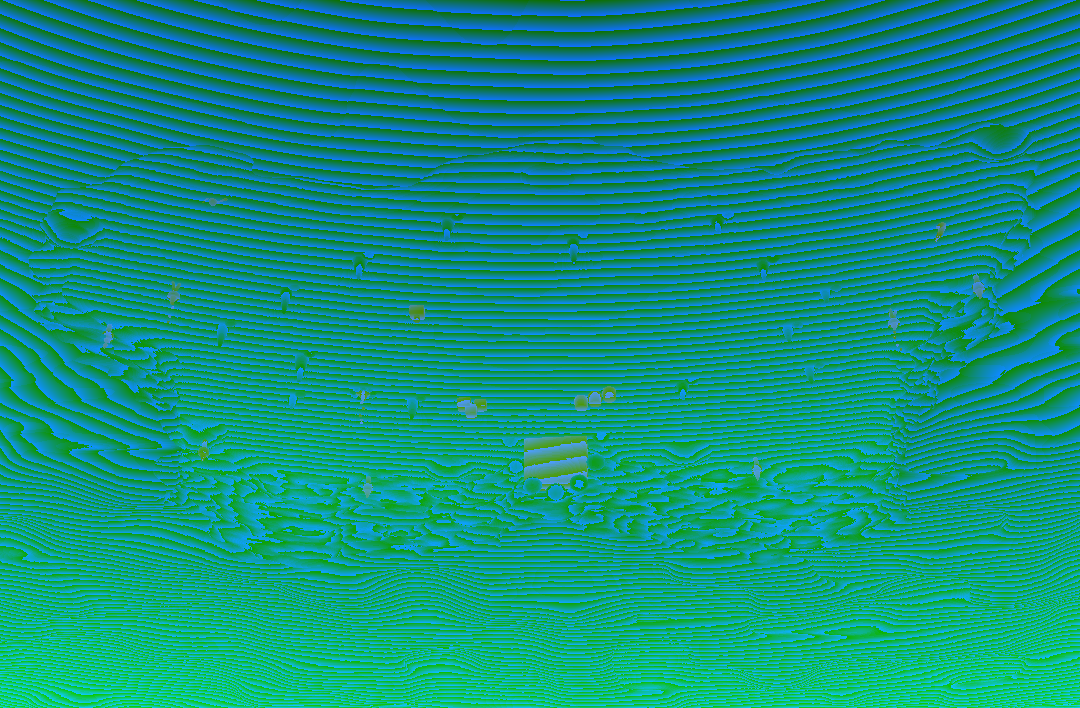
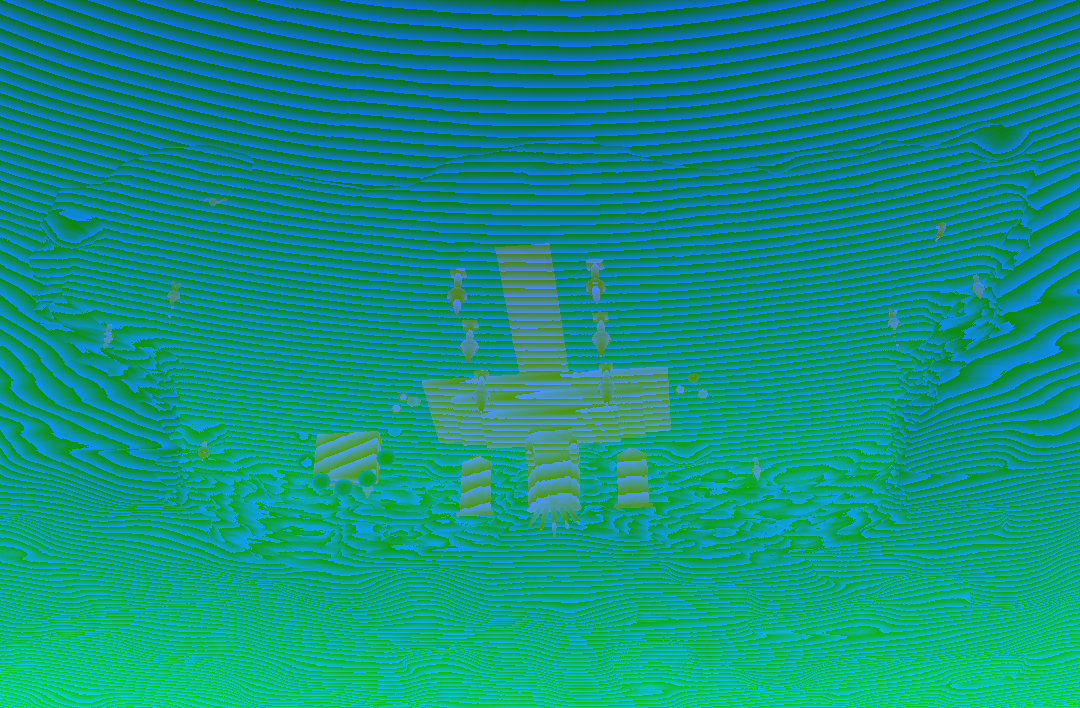
主の間を玉座の間にする
Claude-Session: https://claude.ai/code/session_01MpJPWy321815AwYbXUCf2V

diff --git a/index.html b/index.html
@@ -1035,7 +1035,7 @@ body:has(.stage) .modal{display:none!important}
 .d3card canvas{position:absolute;inset:0;width:100%;height:100%;display:block;image-rendering:pixelated}
 .d3card .cname{position:absolute;top:8px;left:8px;transform:none;z-index:2;white-space:nowrap}
 .d3stack .chall.sel{outline:2px solid var(--gold);outline-offset:-2px}
-.d3tun{position:relative;z-index:1;height:0;padding-bottom:calc(14% + 14px);margin:-3% 0 -11%;pointer-events:none}.d3tun canvas{position:absolute;top:0;left:50%;transform:translateX(-50%);width:144px;height:100%;image-rendering:auto;filter:drop-shadow(0 2px 3px rgba(0,0,0,.6))}
+.d3tun{position:relative;z-index:1;height:0;padding-bottom:calc(14% + 14px);margin:-3% 0 -11%;pointer-events:none}.d3tun canvas{position:absolute;top:0;left:0;width:100%;height:calc(100% + 40px);image-rendering:auto;filter:drop-shadow(0 2px 3px rgba(0,0,0,.6))}
 .d3floor{margin:10px 0 6px;text-align:center;color:#e5b85a;font-size:12px;font-weight:700;letter-spacing:.1em}
 </style>
 </head>
@@ -7212,7 +7212,7 @@ document.addEventListener("click", ev => {
 { const _oc2 = openChest19; openChest19 = function (S, c) { if (c.kind !== "lvall") return _oc2(S, c); if (!S.mons.length) return _oc2(S, c);
   return { text: "👑 覚醒", sub: "Lv+3 する子を1体えらんでね", sp: null, feed: 1, awaken: true, evos: [] }; }; }
 
-const VER20 = "No.207（11/18 20:23）";
+const VER20 = "No.208（11/18 20:43）";
 // ================= proto20：ダンジョンを見る画面と、配置する画面を分ける =================
 // ・ダンジョン画面：洞窟を大きく。部屋をタップ → 部屋ボード（全画面）
 // ・🧭育成：育てる→稼ぐ／守るの流れで見る。卒業Lv・毎朝おまかせ
@@ -9590,6 +9590,10 @@ function caveFS24(room, sps){
   // 鉱石（24）とスープ（25）の色
   rep("  else if(m<12.5){", `  else if(m>23.5&&m<24.5){c=lin(vec3(0.42,0.39,0.37))*(0.7+0.5*fbm(p*7.0));float v=smoothstep(0.66,0.7,fbm(p*4.0+9.0));float gv=smoothstep(0.7,0.74,fbm(p*5.0+2.0));c=mix(c,lin(vec3(0.35,0.75,0.95)),v*0.85);c=mix(c,lin(vec3(1.0,0.8,0.3)),gv*0.85);emi=(v+gv)*0.35;sp=0.3;}
   else if(m>25.5&&m<26.5){c=lin(vec3(0.02,0.018,0.025));sp=0.0;}
+  else if(m>26.5&&m<27.5){c=lin(vec3(0.52,0.06,0.08))*(0.65+0.4*fbm(p*vec3(14.0,3.0,14.0)));sp=0.12;}
+  else if(m>27.5&&m<28.5){c=lin(vec3(0.95,0.7,0.25))*(0.75+0.3*fbm(p*20.0));sp=0.9;}
+  else if(m>28.5&&m<29.5){emi=1.0;float hh=clamp(fract(p.y*2.2+0.1)*1.2,0.0,1.0);c=mix(lin(vec3(0.85,0.5,1.0)),lin(vec3(0.42,0.08,0.8)),hh)*0.62;}
+  else if(m>29.5&&m<30.5){c=lin(vec3(0.2,0.19,0.22))*(0.7+0.45*fbm(p*6.0));float v=smoothstep(0.4,0.43,abs(fract(p.x*0.9+0.5*floor(p.z*0.9))-0.5));c*=0.75+0.25*v;sp=0.35;}
   else if(m>24.5&&m<25.5){c=lin(vec3(0.45,0.7,0.25))*(0.7+0.5*vnoise(p*12.0+tm));emi=0.3;sp=0.6;}
   else if(m>21.5&&m<22.5){float pl=smoothstep(0.0,0.05,abs(fract(p.y*4.0)-0.5)-0.42);c=lin(vec3(0.5,0.34,0.18))*(0.7+0.35*fbm(p*vec3(20.0,3.0,20.0)))*(1.0-0.5*pl);sp=0.04;}
   else if(m>22.5&&m<23.5){float bd=step(0.42,abs(fract(p.y*3.2+0.15)-0.5));c=mix(lin(vec3(0.44,0.28,0.14))*(0.7+0.35*fbm(p*vec3(30.0,3.0,30.0))),lin(vec3(0.25,0.24,0.26)),bd);sp=0.1+bd*0.4;}
@@ -10633,6 +10637,25 @@ const WATCH25 = () => ` {vec3 q=p-vec3(11.0,0.0,3.6);float tb=sRBox(q-vec3(0.0,0
  {for(int i=0;i<3;i++){vec3 c=i==0?vec3(10.4,0.0,7.1):i==1?vec3(11.35,0.0,7.45):vec3(10.85,0.92,7.25);vec3 q=p-c;float br=max(length(q.xz)-(0.4+0.06*cos((q.y-0.46)*2.6)),abs(q.y-0.46)-0.46)-0.02;if(br<r.x)r=vec2(br,23.0);}}
  {vec3 q=p-vec3(13.0,0.0,2.4);float tp=1e3;for(int i=0;i<3;i++){float a=float(i)*2.094+0.3;tp=min(tp,sTap(q,vec3(cos(a)*0.5,0.0,sin(a)*0.5),vec3(0.0,1.3,0.0),0.035,0.03));}if(tp<r.x)r=vec2(tp,12.0);
   float sg=sTap(q,vec3(-0.12,1.32,0.42),vec3(0.16,1.52,-0.5),0.1,0.065);if(sg<r.x)r=vec2(sg,18.0);float rg=sTap(q,vec3(-0.1,1.33,0.36),vec3(-0.08,1.345,0.3),0.115,0.115);if(rg<r.x)r=vec2(rg,22.0);}`;
+// 主の間：石の壇・玉座・赤いじゅうたん・紫の火の台・旗・どくろ
+const THRONE25 = () => ` {vec3 q=(p-vec3(0.0,0.0,-6.3))/1.4;vec2 rr=vec2(1e3,0.0);
+  float ds=sRBox(q-vec3(0.0,0.12,0.0),vec3(4.2,0.12,1.9),0.04);ds=min(ds,sRBox(q-vec3(0.0,0.34,-0.35),vec3(3.3,0.12,1.45),0.04));ds=min(ds,sRBox(q-vec3(0.0,0.56,-0.7),vec3(2.4,0.12,1.05),0.04));if(ds<rr.x)rr=vec2(ds,30.0);
+  vec3 t=q-vec3(0.0,0.68,-1.1);float th=sRBox(t-vec3(0.0,0.35,0.0),vec3(0.75,0.12,0.6),0.04);th=min(th,sRBox(t-vec3(0.0,1.45,-0.5),vec3(0.8,1.25,0.12),0.05));
+  th=min(th,sRBox(vec3(abs(t.x),t.y,t.z)-vec3(0.78,0.75,0.0),vec3(0.1,0.3,0.55),0.04));th=min(th,sRBox(t-vec3(0.0,0.12,0.0),vec3(0.7,0.12,0.55),0.03));if(th<rr.x)rr=vec2(th,30.0);
+  float cu=sRBox(t-vec3(0.0,0.5,0.05),vec3(0.62,0.06,0.5),0.05);cu=min(cu,sRBox(t-vec3(0.0,1.45,-0.36),vec3(0.62,1.05,0.04),0.04));if(cu<rr.x)rr=vec2(cu,27.0);
+  float gd=sTap(vec3(abs(t.x),t.y,t.z),vec3(0.82,0.08,-0.5),vec3(0.82,2.75,-0.5),0.06,0.06);gd=min(gd,sTap(t,vec3(-0.85,2.72,-0.5),vec3(0.85,2.72,-0.5),0.07,0.07));if(gd<rr.x)rr=vec2(gd,28.0);
+  float sk=1e3;for(int i=0;i<5;i++){float a=(float(i)-2.0)*0.38;sk=min(sk,sTap(t,vec3(sin(a)*0.75,2.75,-0.5),vec3(sin(a)*1.25,2.75+cos(a)*(i==2?1.1:0.8),-0.55),0.08,0.01));}if(sk<rr.x)rr=vec2(sk,15.0);
+  float gm=sEll(t-vec3(0.0,2.45,-0.36),vec3(0.16,0.2,0.06));if(gm<rr.x)rr=vec2(gm,29.0);rr.x*=1.4;if(rr.x<r.x)r=rr;}
+ {vec3 q=p-vec3(0.0,0.0,0.0);float cp=sRBox(q-vec3(0.0,0.05,1.2),vec3(1.15,0.04,4.8),0.01);if(cp<r.x)r=vec2(cp,27.0);
+  float cb=max(abs(abs(q.x)-1.0)-0.06,max(abs(q.z-1.2)-4.8,abs(q.y-0.09)-0.012));if(cb<r.x)r=vec2(cb,28.0);}
+ {for(int i=0;i<6;i++){float sx=mod(float(i),2.0)<0.5?-3.0:3.0;float zz=i<2?-3.4:i<4?0.6:4.4;vec3 q=p-vec3(sx,0.0,zz);
+  float st=sTap(q,vec3(0.0,0.0,0.0),vec3(0.0,1.25,0.0),0.16,0.09);st=min(st,sRBox(q-vec3(0.0,0.05,0.0),vec3(0.32,0.05,0.32),0.02));if(st<r.x)r=vec2(st,30.0);
+  float bw=max(abs(length(q-vec3(0,1.42,0))-0.34)-0.04,q.y-1.4);if(bw<r.x)r=vec2(bw,28.0);
+  float fl=sTap(q,vec3(0.0,1.42,0.0),vec3(0.06*sin(tm*9.0+float(i)),1.42+0.85+0.08*sin(tm*13.0+float(i)*2.0),0.0),0.3,0.0);if(fl<r.x)r=vec2(fl,29.0);}}
+ {for(int i=0;i<2;i++){vec3 q=p-vec3(i==0?-3.9:3.9,0.0,-8.55);float bn=sRBox(q-vec3(0.0,3.2,0.0),vec3(0.7,1.6,0.04),0.02);bn=max(bn,-(q.y-1.6-0.6*abs(q.x)+0.05));if(bn<r.x)r=vec2(bn,27.0);
+  float rd=sTap(q,vec3(-0.85,4.85,0.05),vec3(0.85,4.85,0.05),0.05,0.05);float em=sEll(q-vec3(0.0,3.6,0.05),vec3(0.3,0.36,0.03));if(rd<r.x)r=vec2(rd,28.0);if(em<r.x)r=vec2(em,28.0);}}
+ {for(int i=0;i<7;i++){float fi=float(i);vec3 c=vec3((i<4?-7.0:7.0)+sin(fi*2.3)*0.6,0.18+(mod(fi,3.0)<0.5?0.25:0.0),-5.2+cos(fi*1.7)*0.7);vec3 q=p-c;
+  float sk=sEll(q,vec3(0.2,0.18,0.22));sk=max(sk,-sEll(q-vec3(0.08,0.02,0.16),vec3(0.06,0.06,0.08)));sk=max(sk,-sEll(q-vec3(-0.08,0.02,0.16),vec3(0.06,0.06,0.08)));if(sk<r.x)r=vec2(sk,20.0);}}`;
 const HAI25 = (() => {
   const L = r => ROOMS24[r].props.split("\n");
   const T = L("train"), M = L("mine"), S = L("sleep");
@@ -10657,6 +10680,9 @@ const HAI25 = (() => {
     { id: "ladder", name: "見張りのはしごと足場", g: "none", txt: LADDER25(13.4, 5.0, 1), light: "LIGHT(15.4,5.2,5.0,0.75,0.85,1.0,3.4)", foot: [[13.6, 5.0, 1.4], [15.6, 5.0, 1.8]] },
     { id: "watch2", name: "地図の机とたる・遠めがね", g: "none", txt: WATCH25(), light: "LIGHT(11.0,1.4,3.2,1.0,0.7,0.35,2.6)", foot: [[11.0, 3.6, 1.4], [9.7, 4.6, 0.5], [10.9, 7.3, 1.0], [13.0, 2.4, 0.7]] },
     { id: "barr", name: "とげのバリケード", g: "none", txt: BARR25(-4.4, -5.0) + BARR25(4.4, -5.0) + BARR25(-10.6, -3.4) + BARR25(10.6, -3.4), foot: [-7.2, -4.4, -1.6, 1.6, 4.4, 7.2, -13.4, -10.6, -7.8, 7.8, 10.6, 13.4].map((x, k) => [x, k < 6 ? -5.0 : -3.4, 1.2]) },
+    { id: "throne", name: "玉座と壇・じゅうたん", g: "none", txt: THRONE25(), light: "LIGHT(-3.0,2.1,-3.4,0.7,0.3,1.0,2.6) LIGHT(3.0,2.1,-3.4,0.7,0.3,1.0,2.6) LIGHT(-3.0,2.1,4.4,0.7,0.3,1.0,2.2) LIGHT(3.0,2.1,4.4,0.7,0.3,1.0,2.2) LIGHT(0.0,4.2,-6.0,0.75,0.35,1.0,3.0) LIGHT(0.0,2.0,1.5,1.0,0.55,0.3,2.0)",
+      foot: [[0, -6.3, 5.8], [-3, -3.4, 0.6], [3, -3.4, 0.6], [-3, 0.6, 0.6], [3, 0.6, 0.6], [-3, 4.4, 0.6], [3, 4.4, 0.6], [-7.0, -5.2, 0.9], [7.0, -5.2, 0.9]] },
+    { id: "gateL", name: "主の間の入口（左奥）", g: "none", txt: GATE25(-10.5, -7.9, 0), light: "LIGHT(-10.5,2.4,-6.9,1.0,0.6,0.3,2.0)", foot: [[-10.5, -7.7, 1.8]] },
     { id: "dummy", name: "わら人形", shell: 1, foot: [[-2.05 * 6.34, 0.55 * 5.76, 0.8]] },
     { id: "rack", name: "武器立て", shell: 1, foot: [[-1.35 * 6.34, -1.65 * 5.76, 0.8]] },
     { id: "torch", name: "壁の松明", shell: 1, foot: [] },
@@ -10791,7 +10817,7 @@ const ROOMSET25 = {
   train: ["stake", "rocks", "ring", "pit1", "dummy", "rack", "torch", "stal", "gate", "gate2"],
   mine: ["ore", "rail", "pebble", "pick", "lamp", "torch", "stal", "gate", "gate2"],
   bed: ["bed", "pot", "torch", "stal", "gate", "gate2"],
-  lord: ["pit1", "crate", "torch", "stal", "gate"],
+  lord: ["throne", "gateL", "torch"],
   nest: ["nest", "crate", "torch", "stal", "gate", "gate2"],
   watch: ["ladder", "watch2", "crate", "torch", "stal", "gate", "gate2"],
   entry: ["barr", "crate", "lamp", "rack", "torch", "stal", "gate", "gate2"],
@@ -10805,7 +10831,7 @@ function roomKind25(i){ const R = S.path[i] || {}; if (i === lordIdx(S)) return 
   return F.includes("train") ? "train" : F.includes("mine") ? "mine" : F.includes("bed") ? "bed" : R.fac === "mine" ? "mine" : R.fac === "bed" ? "bed" : R.fac === "train" ? "train" : F.includes("nest") || R.fac === "nest" ? "nest" : F.includes("watch") || R.fac === "watch" ? "watch" : F.includes("gate") || R.fac === "gate" ? "entry" : "plain"; }
 // 配った洞窟の絵（bg25/部屋の種類_c.png・_d.png）があれば、それを読み込む
 function setRoom25(i){ const C = B3.C; C.setRoom(B3.roomKey); const k = roomKind25(i); if (!BGSHIP25[k]) return; C.putBgImages(`bg25/${k}_c.png?v=${BGSHIP25[k]}`, `bg25/${k}_d.png?v=${BGSHIP25[k]}`, C.st.bgKey); }
-const BGSHIP25 = { train: "fd282ce3", mine: "f6c4e409", bed: "3f1c9fef", lord: "961e1f67", plain: "43787f10", nest: "92cc858e", watch: "a7d8de73", entry: "a8a68ce5", train_mine: "52dcb95c", train_bed: "8fba5ad9", train_nest: "d84b8dc8", train_watch: "42cc71e7", mine_bed: "680cf510", mine_nest: "11aafbdb", mine_watch: "22b99272", bed_nest: "3d83bc11", bed_watch: "994ec677", nest_watch: "4e4b4c24" };
+const BGSHIP25 = { train: "fd282ce3", mine: "f6c4e409", bed: "3f1c9fef", lord: "4ab9625f", plain: "43787f10", nest: "92cc858e", watch: "a7d8de73", entry: "a8a68ce5", train_mine: "52dcb95c", train_bed: "8fba5ad9", train_nest: "d84b8dc8", train_watch: "42cc71e7", mine_bed: "680cf510", mine_nest: "11aafbdb", mine_watch: "22b99272", bed_nest: "3d83bc11", bed_watch: "994ec677", nest_watch: "4e4b4c24" };
 function roomKey25(i){ const on = {}; ROOMSET25[roomKind25(i)].forEach(k => on[k] = true); return HAI25.room(on); }
 // ---- 3Dのキャラの種類 ----
 const heroSp25 = h => (typeof heroId === "function" ? String(heroId(h)).replace(/\d+$/, "") : h.job) || "warrior";
@@ -10815,6 +10841,7 @@ function kinds25(){ const K = {}, add = (sp, evo) => { const key = sp + ":" + ev
   return Object.values(K); }
 // ---- 部屋の中の立ち位置 ----
 const TUN25 = [0, -9.9], EXIT25 = [18.6, 0];
+const tun25 = () => (B3 && B3.room === lordIdx(S) ? [-10.5, -8.4] : TUN25);
 function homeSpots25(i){ const ms = N.mons.filter(m => m.home === i); const on = {}; ROOMSET25[roomKind25(i)].forEach(k => on[k] = true);
   const cast = HAI25.place(on, ms.map(m => ({ sp: m.sp, evo: (m.ref && m.ref.evos) || 0, n: 1, act: "idle", id: m.ref.id })), 7 + i * 13);
   const out = {}; const left = ms.slice().sort((a, b) => HAI25.footR({ sp: b.sp, evo: (b.ref && b.ref.evos) || 0 }) - HAI25.footR({ sp: a.sp, evo: (a.ref && a.ref.evos) || 0 }));
@@ -10834,7 +10861,7 @@ function targets25(i){ const L = lordIdx(S), sp = B3.spots[i] || (B3.spots[i] = 
   const want = {};
   // 魔物
   N.mons.forEach(m => { const id = "m" + m.ref.id; if (m.pos !== i && !(B3.A[id] && B3.A[id].dying)) return; const s = sp[id] || [((m.ref.id * 37) % 11 - 5) * 2.2, 1 + ((m.ref.id * 13) % 5)]; want[id] = { x: s[0], z: s[1], key: m.sp + ":" + ((m.ref && m.ref.evos) || 0), hp: m.hp / m.max, down: m.down, name: m.ref.nick || "" }; });
-  if (i === L) want.lord = { x: 0, z: -4.2, key: "lord:0", hp: N.lord.hp / N.lord.max, down: N.lord.down, name: "主" };
+  if (i === L) want.lord = { x: 0, z: -3.0, key: "lord:0", hp: N.lord.hp / N.lord.max, down: N.lord.down, name: "主" };
   // 勇者
   const foes = Object.entries(want).filter(([k, v]) => !v.down);
   let n = 0;
@@ -10843,11 +10870,11 @@ function targets25(i){ const L = lordIdx(S), sp = B3.spots[i] || (B3.spots[i] = 
     if (h.st === "dead" && !(B3.A[id] && B3.A[id].dying)) { if (h.pos !== i) return; }
     if (!(here || comeIn || goOut || (B3.A[id] && B3.A[id].dying)) || h.st === "escaped") return;
     let x, z, enter = false, leave = false;
-    if (comeIn) { const tot = Math.max(1, (typeof corr10 === "function" ? corr10(S, i) : 2)), pr = 1 - Math.max(0, h.walk) / tot; x = TUN25[0] + (h.id % 3 - 1) * 0.9 * pr; z = TUN25[1] + pr * 3.2; enter = true; }
+    if (comeIn) { const tot = Math.max(1, (typeof corr10 === "function" ? corr10(S, i) : 2)), pr = 1 - Math.max(0, h.walk) / tot; x = tun25()[0] + (h.id % 3 - 1) * 0.9 * pr; z = tun25()[1] + pr * 3.2; enter = true; }
     else if (goOut) { x = EXIT25[0]; z = EXIT25[1] + (h.id % 3 - 1) * 0.8; leave = true; }
     else { // 戦う相手の近くへ
       const tg = B3.tgt[id] && want[B3.tgt[id]] && !want[B3.tgt[id]].down ? want[B3.tgt[id]] : foes.length ? foes[(h.id) % foes.length][1] : null;
-      if (h.flee) { x = TUN25[0]; z = TUN25[1]; leave = true; }
+      if (h.flee) { x = tun25()[0]; z = tun25()[1]; leave = true; }
       else if (tg) { const me = B3.A[id], ang0 = me ? Math.atan2(me.z - tg.z, me.x - tg.x) : -Math.PI / 2, ang = (B3.ang[id] ?? (B3.ang[id] = ang0)) + 0;
         const [sp0, ev0] = tg.key.split(":"), rr = HAI25.footR({ sp: sp0, evo: +ev0 }) + 0.75; x = tg.x + Math.cos(ang) * rr; z = tg.z + Math.sin(ang) * rr; }
       else { x = (n - 1) * 1.8; z = -5 + (n % 2); } n++; }
@@ -10882,7 +10909,7 @@ function frame25(tm){
   B3.fx = B3.fx.filter(f => !(f.done && now - f.at > 1) && !(f.k === "shot" && now - f.at > f.dur));
   // 動かす
   Object.entries(want).forEach(([id, w]) => { const a = actor25(id); a.key = w.key; a.w = w;
-    if (!a.placed) { a.placed = true; if (w.enter || id[0] === "h") { a.x = TUN25[0] + (Math.random() - 0.5); a.z = TUN25[1]; a.al = 0; } else { a.x = w.x; a.z = w.z; a.al = 0; } }
+    if (!a.placed) { a.placed = true; if (w.enter || id[0] === "h") { a.x = tun25()[0] + (Math.random() - 0.5); a.z = tun25()[1]; a.al = 0; } else { a.x = w.x; a.z = w.z; a.al = 0; } }
     a.tx = w.x; a.tz = w.z; a.seen = now; });
   const out = [];
   Object.values(B3.A).forEach(a => { if (!a.w) return;
@@ -11022,7 +11049,7 @@ function droom25(i){ const kind = roomKind25(i), on = {}; ROOMSET25[kind].forEac
   const order = all.map((m, k) => ({ m, a: list[k] })).sort((a, b) => HAI25.footR({ sp: b.m.sp, evo: b.m.evos || 0 }) - HAI25.footR({ sp: a.m.sp, evo: a.m.evos || 0 }));
   const fit = (x, z, r) => { for (let n = 0; n < 30; n++) { const p = dproj25(x, 0, z), pw = r * p[2]; if (p[0] - pw > 0.1 && p[0] + pw < 0.9 && p[1] > 0.3 && p[1] < 0.84) break; x *= 0.92; z = z * 0.9 + 0.3; } return [x, z]; };
   const acts = []; cast.forEach((c, k) => { const o = order[k]; if (!o) return; const [fx0, fz0] = fit(c.o[0], c.o[2], HAI25.footR({ sp: o.m.sp, evo: o.m.evos || 0 })); c.o[0] = fx0; c.o[2] = fz0; acts.push({ m: o.m, sp: o.m.sp, evo: o.m.evos || 0, x: c.o[0], z: c.o[2], hx: c.o[0], hz: c.o[2], tx: c.o[0], tz: c.o[2], mode: c.mode, face: Math.random() < 0.5 ? 1 : -1, next: 0, ph: Math.random() * 3 }); });
-  if (S.path[i].kind === "lord") acts.push({ lord: true, sp: "lord", evo: typeof lordTier === "function" ? lordTier() : 0, x: 0, z: -3.5, hx: 0, hz: -3.5, tx: 0, tz: -3.5, mode: "idle", face: 1, next: 1e12, ph: 0 });
+  if (S.path[i].kind === "lord") acts.push({ lord: true, sp: "lord", evo: typeof lordTier === "function" ? lordTier() : 0, x: 0, z: -3.0, hx: 0, hz: -3.0, tx: 0, tz: -3.0, mode: "idle", face: 1, next: 1e12, ph: 0 });
   return D3.act[i] = { sig, kind, acts }; }
 // ---- 1部屋を描く ----
 const DFR25 = { idle: [0, 4, 1.6], walk: [15, 2, 0.5], hop: [11, 4, 0.6], atk: [5, 4, 0.55], sleep: [4, 1, 1] };
@@ -11039,7 +11066,7 @@ function dcard25(card, i, now, dt){
     const p = dproj25(a.x, 0, a.z), fx = p[0] * W, fy = p[1] * H, k = p[2] * W / o.ppu, s = 128 * k;
     const st = a.mode === "sleep" ? "sleep" : a.walking ? (o.bip ? "walk" : "hop") : (a.mode === "mine" || a.mode === "train" || a.mode === "slash" || a.mode === "lift") && o.bip ? "atk" : "idle";
     const F = DFR25[st], fr = F[0] + Math.floor(((now + a.ph) / F[2] * F[1]) % F[1]);
-    const lum = dlum25(bg, p[0], p[1] - 0.04), br = Math.max(0.42, Math.min(1.05, 0.3 + lum * 2.2));
+    const lum = dlum25(bg, p[0], p[1] - 0.04), br = Math.max(a.lord ? 0.8 : 0.42, Math.min(1.05, 0.3 + lum * 2.2));
     g.save(); g.fillStyle = "rgba(0,0,0,0.3)"; g.beginPath(); g.ellipse(fx, fy, Math.max(3, 11 * k), Math.max(2, 4.5 * k), 0, 0, 7); g.fill();
     const T = D3.tmp || (D3.tmp = document.createElement("canvas")); if (T.width !== 128) { T.width = 128; T.height = 128; } const tg = T.getContext("2d");
     tg.globalCompositeOperation = "source-over"; tg.clearRect(0, 0, 128, 128); tg.drawImage(o.im, fr * 128, 0, 128, 128, 0, 0, 128, 128);
@@ -11056,7 +11083,8 @@ D3.pops = {};
 function dpops25(g, i, R, now, dpr, W, H){ const L = D3.pops[i]; if (!L || !L.length) return;
   D3.pops[i] = L.filter(p => now - p.t0 < p.ms);
   // 先に置き場所を決める：吹き出しを先に、ほかの文字は重ならないところまで上へ（多すぎたら小さい文字は出さない）
-  const placed = [{ x0: 0, y0: 0, x1: 78 * dpr, y1: 30 * dpr }], items = D3.pops[i].slice().sort((a, b) => (b.talk ? 1 : 0) - (a.talk ? 1 : 0) || a.t0 - b.t0);
+  const gp = R.kind === "lord" ? [-10.5, -7.9] : [0, -9.4], pg = dproj25(gp[0], 2.75, gp[1]);
+  const placed = [{ x0: 0, y0: 0, x1: 78 * dpr, y1: 30 * dpr }, { x0: pg[0] * W - 32 * dpr, y0: 0, x1: pg[0] * W + 32 * dpr, y1: pg[1] * H + 4 * dpr }], items = D3.pops[i].slice().sort((a, b) => (b.talk ? 1 : 0) - (a.talk ? 1 : 0) || a.t0 - b.t0);
   items.forEach(p => { if (p.hide) return; const q = (now - p.t0) / p.ms; p.al = q < 0.12 ? q / 0.12 : q > 0.72 ? (1 - q) / 0.28 : 1;
     let x, y; if (p.a && p.a.sx != null && R.acts.includes(p.a)) { x = p.a.sx; y = p.a.sy - 10 * dpr; } else { x = p.u * W; y = p.v * H; }
     y -= (p.talk ? 3 : 12) * dpr * q;
@@ -11085,11 +11113,12 @@ cPop = (prev => function (f, x, y, text, cls = "", ms = 1100){
         L.push({ a: best, u: 0.15 + 0.7 * Math.max(0, Math.min(1, (x - o.x0) / Math.max(1, o.x1 - o.x0))), v: 0.5, text, cls, talk, lift, t0, ms: Math.min(talk ? 2.6 : 1.4, ms / 1000) }); } } } } catch (e) {}
   return prev.apply(this, arguments); })(cPop);
 // ---- 部屋と部屋をつなぐトンネル（小さな絵を毎コマ描く。たいまつがゆらぐ） ----
-function dtun25(cv, seed, now){ const Wc = cv.parentNode.clientWidth || 370, Hc = Math.round(cv.clientHeight || 70); if (cv.height !== Hc) { cv.height = Hc; if (D3.tunB) delete D3.tunB[seed]; }
+function dtun25(cv, seed, now){ const Wc = cv.parentNode.clientWidth || 370, Hc = Math.round(cv.clientHeight || 70); if (cv.height !== Hc || cv.width !== Math.round(Wc)) { cv.height = Hc; cv.width = Math.round(Wc); if (D3.tunB) delete D3.tunB[seed]; }
   const g = cv.getContext("2d"), W = cv.width, H = cv.height; let s = seed * 9301 + 49297; const R = () => (s = (s * 9301 + 49297) % 233280) / 233280;
   const B = D3.tunB || (D3.tunB = {}); let base = B[seed];
   if (!base) { base = B[seed] = document.createElement("canvas"); base.width = W; base.height = H; const b = base.getContext("2d"), P = (x, y, c) => { b.fillStyle = c; b.fillRect(x, y, 1, 1); };
-    const yT = 4, yG = H - 4, xT = W / 2, xG = W / 2 + 0.014 * Wc;   // 上の部屋の床の穴／下の部屋の門の上
+    const gp = (() => { try { return roomKind25(seed) === "lord" ? [-10.5, -7.9] : [0, -9.4]; } catch (e) { return [0, -9.4]; } })(), pg = dproj25(gp[0], 2.75, gp[1]);
+    const yT = 4, yG = Math.round(H - 40 - 0.11 * Wc + pg[1] * Wc / 2) + 1, xG = pg[0] * W, xT = xG;   // 上の部屋の床の穴／下の部屋の門の上
     const tt = y => Math.max(0, Math.min(1, (y - yT) / (yG - yT)));
     const cx = y => xT + (xG - xT) * tt(y) + Math.sin(tt(y) * Math.PI) * Math.sin(seed * 1.7) * 7, hw = y => 9.5 + Math.sin(y * 0.35 + seed) * 1.0;
     const wob = Array.from({ length: H }, () => R()); for (let k = 0; k < 3; k++) for (let y = 1; y < H - 1; y++) wob[y] = (wob[y - 1] + wob[y] + wob[y + 1]) / 3;
@@ -11134,7 +11163,7 @@ function dstack25(){
   if (st.dataset.sig !== sig) { st.dataset.sig = sig; let h = "", lastF = -1;
     S.path.forEach((r, i) => { if (r.kind === "dead") return; const f = r.f || 0;
       if (f !== lastF) { if (lastF >= 0 || f > 0) h += `<div class="d3floor">▼ B${f + 1}　${THEME7[(S.floors[f] || {}).theme] ? THEME7[S.floors[f].theme].name : ""}</div>`; lastF = f; }
-      else h += `<div class="d3tun"><canvas width="144" height="52" data-s="${i}"></canvas></div>`;
+      else h += `<div class="d3tun"><canvas width="370" height="70" data-s="${i}"></canvas></div>`;
       const name = r.kind === "lord" ? "👑 主の間" : esc(roomTitle(S, i));
       h += `<div class="chall d3card${roomSel === i ? " sel" : ""}" data-room="${i}"><canvas></canvas><span class="cname">${name}</span></div>`; });
     st.innerHTML = h; }
